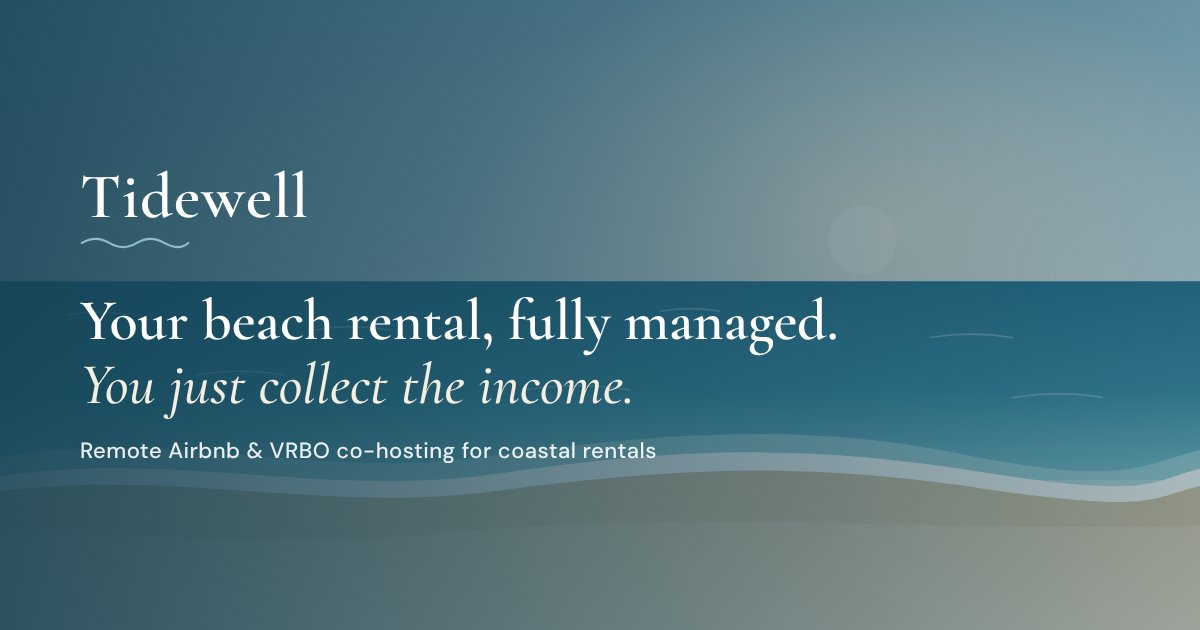
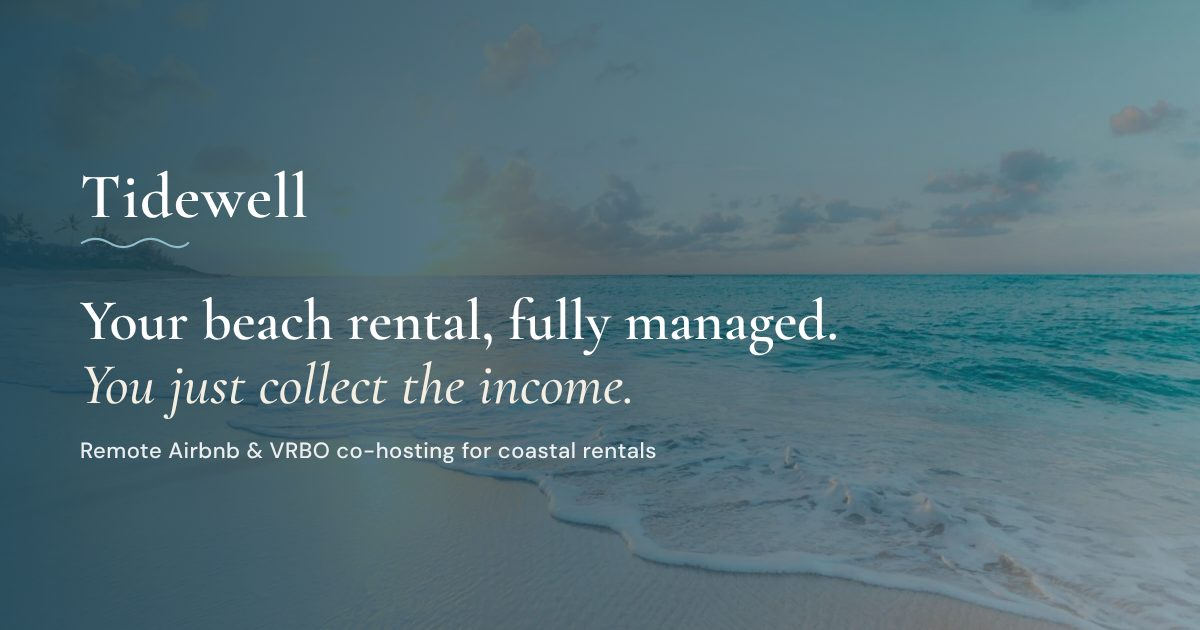
Replace placeholder illustrations with real beach photos
Free Unsplash photos for the hero (separate wide and phone crops) and
the How it works section, compressed for fast loading. The link-preview
image is rebuilt from the new hero photo.

Claude-Session: https://claude.ai/code/session_01Eq8z2zpLfDGk2HJJ689dF5

diff --git a/tidewell/index.html b/tidewell/index.html
@@ -75,8 +75,11 @@
 
     <!-- ===== 1. Hero ===== -->
     <section class="hero">
-      <!-- Swap this image: put your photo at images/hero.jpg and change the src below -->
-      <img class="hero-img" src="images/hero.svg" alt="Calm ocean waves meeting a sandy beach" width="1600" height="1000" fetchpriority="high">
+      <!-- Photo: Unsplash (free license). To swap, replace images/hero-900.jpg (portrait, phones) and images/hero-1800.jpg (wide, desktop) -->
+      <picture>
+        <source media="(max-width: 700px)" srcset="images/hero-900.jpg">
+        <img class="hero-img" src="images/hero-1800.jpg" alt="Gentle turquoise waves rolling onto a pale sand beach at sunrise" width="1800" height="1197" fetchpriority="high">
+      </picture>
       <div class="hero-overlay"></div>
       <div class="container hero-content">
         <p class="eyebrow">Remote co-hosting for beach &amp; coastal rentals</p>
@@ -169,9 +172,9 @@
           <a href="#contact" class="btn btn-primary">Start with a free review</a>
         </div>
 
-        <!-- Swap this image: put your photo at images/coast.jpg and change the src below -->
+        <!-- Photo: Unsplash (free license). To swap, replace images/coast.jpg (portrait, about 900x1125) -->
         <figure class="how-figure">
-          <img src="images/coast.svg" alt="Beach house porch overlooking the ocean" width="900" height="1100" loading="lazy">
+          <img src="images/coast.jpg" alt="Shaded wooden deck of a beach house leading down to the sand and sea" width="900" height="1125" loading="lazy">
         </figure>
       </div>
     </section>

diff --git a/tidewell/README.md b/tidewell/README.md
@@ -11,8 +11,9 @@ tidewell/
 ├── logo.svg          ← Tidewell wordmark (for email signatures, social profiles, etc.)
 ├── favicon.svg       ← browser-tab icon
 ├── images/
-│   ├── hero.svg      ← placeholder: big top image
-│   ├── coast.svg     ← placeholder: "How it works" image
+│   ├── hero-1800.jpg ← top photo, desktop (wide)
+│   ├── hero-900.jpg  ← top photo, phones (tall crop)
+│   ├── coast.jpg     ← "How it works" photo (tall)
 │   └── og-image.jpg  ← preview image shown when the link is shared in texts/social
 ├── robots.txt, sitemap.xml   ← help Google find the site
 └── vercel.json       ← tells Vercel "this is a plain static site"
@@ -133,8 +134,10 @@ The placeholders are lightweight illustrations. To use real photos:
 1. Pick a wide, bright beach photo for the top (landscape, at least 1600px wide) and a vertical one for "How it works" (portrait, ~900×1100).
    Free sources: **unsplash.com** or **pexels.com** (search "beach house", "coastal porch", "ocean shoreline"). Your own property photos are even better.
 2. Shrink them first at **squoosh.app** (choose WebP or JPG, quality ~75). Aim for under 300 KB each so the site stays fast on phones.
-3. Upload them to `tidewell/images/` as `hero.jpg` and `coast.jpg` (on GitHub: open the folder → **Add file → Upload files**).
-4. In `index.html`, change `images/hero.svg` → `images/hero.jpg` and `images/coast.svg` → `images/coast.jpg`, and update the `alt="..."` text to describe the new photo.
+3. Upload them to `tidewell/images/` with the **same file names** to replace the current photos: `hero-1800.jpg` (wide, ~1800px), `hero-900.jpg` (tall crop for phones, ~900×1200) and `coast.jpg` (tall, ~900×1125). On GitHub: open the folder → **Add file → Upload files**.
+4. In `index.html`, update the `alt="..."` text to describe the new photos.
+
+The current photos are free Unsplash images (Unsplash License, no credit required).
 
 ## Changing colors or fonts
 All colors are at the top of `styles.css` (`--ocean-700`, `--sand-100`, etc.). Change a value once and it updates everywhere.
